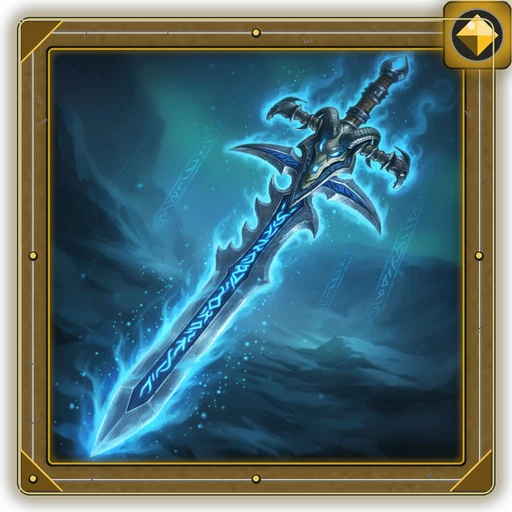
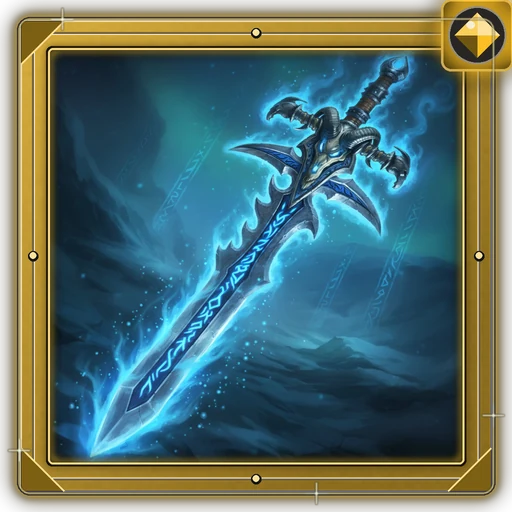
Relic slots show only the image; vivid rarity-colored frames

Changed region(s): [[0.0, 0.0, 1.0, 1.0]]

diff --git a/prototipo/styles.css b/prototipo/styles.css
@@ -81,21 +81,18 @@ section h3::after { content: ''; flex: 1; height: 1px; background: linear-gradie
 .eff .tag { font-size: 9px; font-weight: 700; padding: 1px 5px; border-radius: 99px; background: rgba(255, 255, 255, .06); color: var(--muted); }
 .none { color: var(--muted); font-size: 12px; font-style: italic; }
 
-.relics { display: grid; grid-template-columns: 1fr 1fr; gap: 6px; }
+.relics { display: grid; grid-template-columns: repeat(3, 1fr); gap: 8px; }
 .slot {
-  --rc: #3a4254; position: relative; padding: 7px 8px 7px 11px; border-radius: 8px; background: var(--panel-2);
-  border: 1px solid var(--line); cursor: default; min-height: 52px; overflow: hidden;
+  --rc: #3a4254; position: relative; aspect-ratio: 1; border-radius: 10px; background: var(--panel-2);
+  border: 1px solid var(--line); cursor: default; overflow: hidden; display: grid; place-items: center;
 }
-.slot::before { content: ''; position: absolute; left: 0; top: 0; bottom: 0; width: 3px; background: var(--rc); }
-.slot.has { cursor: pointer; }
-.slot.con-img { padding-left: 52px; min-height: 52px; }
-.slot-img { position: absolute; left: 6px; top: 50%; transform: translateY(-50%); width: 42px; height: 42px; border-radius: 6px; }
-.slot.has:hover { border-color: var(--rc); box-shadow: 0 0 12px color-mix(in srgb, var(--rc) 35%, transparent); }
-.slot.locked { opacity: .55; background: repeating-linear-gradient(135deg, #10151f, #10151f 6px, #0c1018 6px, #0c1018 12px); }
-.slot-label { font-size: 9px; font-weight: 800; letter-spacing: .8px; text-transform: uppercase; color: var(--muted); }
-.slot-name { font-size: 12px; font-weight: 700; margin-top: 2px; color: var(--rc); }
-.slot.empty .slot-name, .slot.locked .slot-name { color: var(--muted); font-weight: 600; }
-.slot-sub { font-size: 10px; color: var(--muted); margin-top: 1px; }
+.slot.has { cursor: pointer; border: none; background: transparent; transition: transform .15s, filter .15s; }
+.slot.has:hover { transform: scale(1.06); filter: drop-shadow(0 0 10px color-mix(in srgb, var(--rc) 70%, transparent)); }
+.slot-img { width: 100%; height: 100%; object-fit: contain; display: block; }
+.slot.has:not(:has(img)) { border: 2px solid var(--rc); background: var(--panel-2); }   /* reliquia sin imagen todavía */
+.slot-txt { padding: 6px; font-size: 11px; font-weight: 700; color: var(--rc); text-align: center; }
+.slot.locked { opacity: .5; background: repeating-linear-gradient(135deg, #10151f, #10151f 6px, #0c1018 6px, #0c1018 12px); font-size: 20px; }
+.slot.empty { border-style: dashed; color: var(--muted); font-size: 22px; }
 
 .moves { display: flex; flex-direction: column; gap: 6px; }
 .move { padding: 8px 10px; border-radius: 8px; background: var(--panel-2); border: 1px solid var(--line); transition: .15s; }

diff --git a/prototipo/js/ui/panel.js b/prototipo/js/ui/panel.js
@@ -65,11 +65,12 @@ export function renderPanel(p, v, ui) {
   ];
 
   let desbloqueo = 0;
-  const slots = (p.slots || []).map((sl, i) => {
+  const slots = (p.slots || []).map((sl, i) => {      // los espacios solo muestran la imagen; nombre y stats salen al pasar el cursor
     const rel = sl.relic && RELIQUIAS[sl.relic];
-    if (rel) return `<div class="slot has${rel.imagen ? ' con-img' : ''}" data-slot="${i}" style="--rc:${RAREZAS[rel.rarity].color}">${rel.imagen ? `<img class="slot-img" src="${rel.imagen}" alt="">` : ''}<div class="slot-label">${sl.label}</div><div class="slot-name">${rel.name}</div><div class="slot-sub">${rel.rarity} · ${rel.type}</div></div>`;
-    if (sl.locked) return `<div class="slot locked"><div class="slot-label">${sl.label}</div><div class="slot-name">🔒 Bloqueado</div><div class="slot-sub">${COSTOS_ESPACIO[Math.min(desbloqueo++, 2)]} de Oro${sl.bow ? ' · por el Arco' : ''}</div></div>`;
-    return `<div class="slot empty"><div class="slot-label">${sl.label}</div><div class="slot-name">Vacío</div><div class="slot-sub">${sl.bow ? 'Desbloqueado por el Arco' : 'Disponible'}</div></div>`;
+    if (rel) return `<div class="slot has" data-slot="${i}" style="--rc:${RAREZAS[rel.rarity].color}" title="">${rel.imagen
+      ? `<img class="slot-img" src="${rel.imagen}" alt="${rel.name}">` : `<div class="slot-txt">${rel.name}</div>`}</div>`;
+    if (sl.locked) return `<div class="slot locked" title="${sl.label}: bloqueado · ${COSTOS_ESPACIO[Math.min(desbloqueo++, 2)]} de Oro${sl.bow ? ' · por el Arco' : ''}"><span>🔒</span></div>`;
+    return `<div class="slot empty" title="${sl.label}: vacío${sl.bow ? ' · desbloqueado por el Arco' : ''}"><span>＋</span></div>`;
   }).join('');
 
   const moves = (v.movs || p.movimientos).map(m => {

diff --git a/prototipo/index.html b/prototipo/index.html
@@ -15,7 +15,7 @@
   <link rel="preconnect" href="https://fonts.googleapis.com">
   <link rel="preconnect" href="https://fonts.gstatic.com" crossorigin>
   <link href="https://fonts.googleapis.com/css2?family=Cinzel:wght@400;600;700;900&family=Inter:wght@400;500;600;700;800;900&display=swap" rel="stylesheet">
-  <link rel="stylesheet" href="styles.css?v=12">
+  <link rel="stylesheet" href="styles.css?v=13">
   <link rel="stylesheet" href="menu.css?v=21">
 </head>
 <body data-pantalla="cargando">

diff --git a/prototipo/herramientas/marcos_reliquias.py b/prototipo/herramientas/marcos_reliquias.py
@@ -8,7 +8,7 @@ Uso (desde la carpeta prototipo):
 Toma el arte de cada reliquia de assets/originales/reliquias/ (el nombre del archivo es el nombre de la reliquia
 o su id de js/datos/reliquias.js), lo recorta al centro, lo monta dentro del marco de piedra de su rareza
 (con la joya del color de la rareza en la esquina superior derecha) y guarda assets/reliquias/<id>.webp (512x512, id exacto de la ficha).
-Las legendarias llevan además un marco dorado con resplandor de luz amarilla.
+Todos los marcos son de metal del color de su rareza con resplandor exterior; el de las legendarias es dorado, más intenso y con destellos.
 """
 import re
 import sys
@@ -71,79 +71,73 @@ def joya(color, r):
 
 
 def marco(rareza):
+    """Marco de metal labrado del color de la rareza, con resplandor exterior y la joya arriba a la derecha."""
     color = COLORES[rareza]
     leg = rareza == 'Legendario'
-    capa = Image.new('RGBA', (S, S), (0, 0, 0, 0))
     x0, y0, x1, y1 = M, M, S - M, S - M
+    capa = Image.new('RGBA', (S, S), (0, 0, 0, 0))
+    # resplandor exterior del color de la rareza (más intenso en las legendarias)
+    aura = Image.new('RGBA', (S, S), (0, 0, 0, 0))
+    ImageDraw.Draw(aura).rounded_rectangle([x0 - 4, y0 - 4, x1 + 4, y1 + 4], radius=30, outline=color + (255,), width=30 if leg else 16)
+    capa = Image.alpha_composite(capa, aura.filter(ImageFilter.GaussianBlur(20 if leg else 12)))
+    if leg:
+        capa = Image.alpha_composite(capa, aura.filter(ImageFilter.GaussianBlur(8)))
+    # cuerpo del marco: metal del color de la rareza (oscuro -> brillante) con textura de piedra encima
     mascara = Image.new('L', (S, S), 0)
     dm = ImageDraw.Draw(mascara)
     dm.rounded_rectangle([x0, y0, x1, y1], radius=26, fill=255)
     dm.rounded_rectangle([x0 + B, y0 + B, x1 - B, y1 - B], radius=10, fill=0)
-    piedra = textura_piedra(color if not leg else (200, 150, 40), 7)
-    if leg:   # marco dorado: piedra cálida con más brillo
-        piedra = Image.blend(piedra, Image.new('RGB', (S, S), (150, 108, 28)), .55)
-    capa.paste(piedra, (0, 0), mascara)
+    tex = np.asarray(textura_piedra((128, 128, 128), 7).convert('L'), float) / 255
+    yy, xx = np.mgrid[0:S, 0:S] / S
+    luz = np.clip(1.05 - (xx + yy) * .45, .35, 1)                 # luz desde arriba a la izquierda
+    oscuro, claro = np.array(mezcla(color, (0, 0, 0), .62), float), np.array(mezcla(color, (255, 255, 255), .18), float)
+    t = np.clip(luz * .75 + tex * .45 - .1, 0, 1)[..., None]
+    metal = Image.fromarray((oscuro * (1 - t) + claro * t).clip(0, 255).astype('uint8'), 'RGB')
+    capa.paste(metal, (0, 0), mascara)
     d = ImageDraw.Draw(capa)
-    # biseles: luz arriba/izquierda, sombra abajo/derecha
-    luz, sombra = (255, 255, 255, 70 if not leg else 110), (0, 0, 0, 120)
-    d.rounded_rectangle([x0, y0, x1, y1], radius=26, outline=(0, 0, 0, 200), width=5)
-    d.line([(x0 + 10, y0 + 6), (x1 - 10, y0 + 6)], fill=luz, width=4)
-    d.line([(x0 + 6, y0 + 10), (x0 + 6, y1 - 10)], fill=luz, width=4)
-    d.line([(x0 + 10, y1 - 6), (x1 - 10, y1 - 6)], fill=sombra, width=4)
-    d.line([(x1 - 6, y0 + 10), (x1 - 6, y1 - 10)], fill=sombra, width=4)
-    # surco tallado a mitad del marco
-    h = B // 2 - 4
-    d.rounded_rectangle([x0 + h, y0 + h, x1 - h, y1 - h], radius=18, outline=(0, 0, 0, 110), width=5)
-    d.rounded_rectangle([x0 + h + 3, y0 + h + 3, x1 - h - 3, y1 - h - 3], radius=16, outline=(255, 255, 255, 35 if not leg else 70), width=2)
-    # adornos tallados en las esquinas (placas diagonales)
+    brillo, sombra = mezcla(color, (255, 255, 255), .6) + (230,), (0, 0, 0, 150)
+    d.rounded_rectangle([x0, y0, x1, y1], radius=26, outline=(0, 0, 0, 220), width=5)
+    d.line([(x0 + 14, y0 + 7), (x1 - 14, y0 + 7)], fill=brillo, width=4)
+    d.line([(x0 + 7, y0 + 14), (x0 + 7, y1 - 14)], fill=brillo, width=4)
+    d.line([(x0 + 14, y1 - 7), (x1 - 14, y1 - 7)], fill=sombra, width=5)
+    d.line([(x1 - 7, y0 + 14), (x1 - 7, y1 - 14)], fill=sombra, width=5)
+    # surco labrado a mitad del marco
+    h = B // 2 - 2
+    d.rounded_rectangle([x0 + h, y0 + h, x1 - h, y1 - h], radius=18, outline=mezcla(color, (0, 0, 0), .7) + (200,), width=5)
+    d.rounded_rectangle([x0 + h + 4, y0 + h + 4, x1 - h - 4, y1 - h - 4], radius=16, outline=mezcla(color, (255, 255, 255), .35) + (120,), width=2)
+    # esquinas labradas
     for (cx, cy, sx, sy) in [(x0, y0, 1, 1), (x0, y1, 1, -1), (x1, y1, -1, -1)]:
-        poly = [(cx + sx * 8, cy + sy * 8), (cx + sx * (B + 26), cy + sy * 8), (cx + sx * 8, cy + sy * (B + 26))]
-        d.polygon(poly, fill=(28, 28, 30, 255) if not leg else (110, 78, 20, 255), outline=(0, 0, 0, 230))
-        d.line([poly[1], poly[2]], fill=color + (200,), width=3)
-    # borde interior (hacia la ilustración) con línea del color de la rareza
-    d.rounded_rectangle([x0 + B - 6, y0 + B - 6, x1 - B + 6, y1 - B + 6], radius=12, outline=(10, 10, 12, 255), width=8)
-    d.rounded_rectangle([x0 + B - 2, y0 + B - 2, x1 - B + 2, y1 - B + 2], radius=10, outline=color + (255,), width=4)
-    resplandor = Image.new('RGBA', (S, S), (0, 0, 0, 0))
-    ImageDraw.Draw(resplandor).rounded_rectangle([x0 + B - 2, y0 + B - 2, x1 - B + 2, y1 - B + 2], radius=10, outline=color + (200,), width=10)
-    capa = Image.alpha_composite(capa, resplandor.filter(ImageFilter.GaussianBlur(7)))
+        poly = [(cx + sx * 8, cy + sy * 8), (cx + sx * (B + 30), cy + sy * 8), (cx + sx * 8, cy + sy * (B + 30))]
+        d.polygon(poly, fill=mezcla(color, (0, 0, 0), .5) + (255,), outline=(0, 0, 0, 230))
+        d.line([poly[1], poly[2]], fill=mezcla(color, (255, 255, 255), .5) + (255,), width=4)
+    # remaches
+    for (rx, ry) in [((x0 + x1) // 2, y0 + B // 2), ((x0 + x1) // 2, y1 - B // 2), (x0 + B // 2, (y0 + y1) // 2), (x1 - B // 2, (y0 + y1) // 2)]:
+        d.ellipse([rx - 10, ry - 10, rx + 10, ry + 10], fill=(20, 20, 22, 255))
+        d.ellipse([rx - 7, ry - 8, rx + 6, ry + 5], fill=mezcla(color, (255, 255, 255), .55) + (255,))
+    # borde interior luminoso (hacia la ilustración)
+    d.rounded_rectangle([x0 + B - 6, y0 + B - 6, x1 - B + 6, y1 - B + 6], radius=12, outline=(8, 8, 10, 255), width=8)
+    interior = Image.new('RGBA', (S, S), (0, 0, 0, 0))
+    ImageDraw.Draw(interior).rounded_rectangle([x0 + B - 2, y0 + B - 2, x1 - B + 2, y1 - B + 2], radius=10, outline=color + (255,), width=12)
+    capa = Image.alpha_composite(capa, interior.filter(ImageFilter.GaussianBlur(8)))
     d = ImageDraw.Draw(capa)
-    # grietas sutiles en la piedra
-    rng = np.random.default_rng(3)
-    for _ in range(14):
-        lado = rng.integers(0, 4)
-        if lado == 0: px, py = rng.integers(x0 + 40, x1 - 40), rng.integers(y0 + 8, y0 + B - 8)
-        elif lado == 1: px, py = rng.integers(x0 + 40, x1 - 40), rng.integers(y1 - B + 8, y1 - 8)
-        elif lado == 2: px, py = rng.integers(x0 + 8, x0 + B - 8), rng.integers(y0 + 40, y1 - 40)
-        else: px, py = rng.integers(x1 - B + 8, x1 - 8), rng.integers(y0 + 40, y1 - 40)
-        pts = [(int(px), int(py))]
-        for _ in range(3): pts.append((pts[-1][0] + int(rng.integers(-14, 15)), pts[-1][1] + int(rng.integers(-14, 15))))
-        d.line(pts, fill=(20, 20, 22, 150), width=2)
-    # remaches en los costados (como el ejemplo)
-    for (rx, ry) in [((x0 + x1) // 2, y0 + B // 2), ((x0 + x1) // 2, y1 - B // 2), (x0 + B // 2, (y0 + y1) // 2), (x1 - B // 2, (y0 + y1) // 2),
-                     (x0 + B // 2, y1 - B // 2)]:
-        d.ellipse([rx - 9, ry - 9, rx + 9, ry + 9], fill=(30, 30, 32, 255))
-        d.ellipse([rx - 6, ry - 7, rx + 5, ry + 4], fill=(150, 148, 140, 255) if not leg else (240, 200, 90, 255))
-    # esquina de la joya (arriba a la derecha): placa de piedra que sobresale
-    jx, jy, jr = x1 - B // 2 - 4, y0 + B // 2 + 4, 54
-    d.rounded_rectangle([jx - jr - 14, jy - jr - 14, jx + jr + 14, jy + jr + 14], radius=18, fill=(46, 44, 46, 255) if not leg else (120, 90, 30, 255),
-                        outline=(0, 0, 0, 220), width=4)
-    brillo = Image.new('RGBA', (S, S), (0, 0, 0, 0))
-    ImageDraw.Draw(brillo).ellipse([jx - jr - 30, jy - jr - 30, jx + jr + 30, jy + jr + 30], fill=color + (150,))
-    brillo = brillo.filter(ImageFilter.GaussianBlur(18))
-    capa = Image.alpha_composite(capa, brillo)
+    d.rounded_rectangle([x0 + B - 2, y0 + B - 2, x1 - B + 2, y1 - B + 2], radius=10, outline=mezcla(color, (255, 255, 255), .45) + (255,), width=4)
+    # joya arriba a la derecha sobre una placa oscura, con halo del color
+    jx, jy, jr = x1 - B // 2 - 4, y0 + B // 2 + 4, 58
+    d.rounded_rectangle([jx - jr - 14, jy - jr - 14, jx + jr + 14, jy + jr + 14], radius=20, fill=mezcla(color, (0, 0, 0), .75) + (255,),
+                        outline=mezcla(color, (255, 255, 255), .4) + (255,), width=5)
+    halo = Image.new('RGBA', (S, S), (0, 0, 0, 0))
+    ImageDraw.Draw(halo).ellipse([jx - jr - 34, jy - jr - 34, jx + jr + 34, jy + jr + 34], fill=color + (190,))
+    capa = Image.alpha_composite(capa, halo.filter(ImageFilter.GaussianBlur(20)))
     g = joya(color, jr)
     capa.alpha_composite(g, (jx - g.width // 2, jy - g.height // 2))
-    if leg:   # resplandor dorado exterior + filo brillante
-        aura = Image.new('RGBA', (S, S), (0, 0, 0, 0))
-        da = ImageDraw.Draw(aura)
-        da.rounded_rectangle([x0 - 6, y0 - 6, x1 + 6, y1 + 6], radius=30, outline=(255, 214, 90, 255), width=26)
-        aura = aura.filter(ImageFilter.GaussianBlur(16))
+    if leg:   # filo dorado brillante y destellos
         filo = Image.new('RGBA', (S, S), (0, 0, 0, 0))
-        ImageDraw.Draw(filo).rounded_rectangle([x0 + 2, y0 + 2, x1 - 2, y1 - 2], radius=24, outline=(255, 236, 150, 255), width=4)
-        fondo = Image.new('RGBA', (S, S), (0, 0, 0, 0))
-        fondo = Image.alpha_composite(fondo, aura)
-        capa = Image.alpha_composite(fondo, capa)
-        capa = Image.alpha_composite(capa, filo.filter(ImageFilter.GaussianBlur(1)))
+        df = ImageDraw.Draw(filo)
+        df.rounded_rectangle([x0 + 2, y0 + 2, x1 - 2, y1 - 2], radius=24, outline=(255, 240, 170, 255), width=4)
+        for (sx, sy) in [(x0 + 90, y0 + 4), (x1 - 4, y1 - 160), (x0 + 4, y1 - 90), ((x0 + x1) // 2 + 120, y1 - 4)]:
+            df.line([(sx - 22, sy), (sx + 22, sy)], fill=(255, 255, 230, 255), width=4)
+            df.line([(sx, sy - 22), (sx, sy + 22)], fill=(255, 255, 230, 255), width=4)
+        capa = Image.alpha_composite(capa, filo.filter(ImageFilter.GaussianBlur(1.5)))
     return capa
 
 
